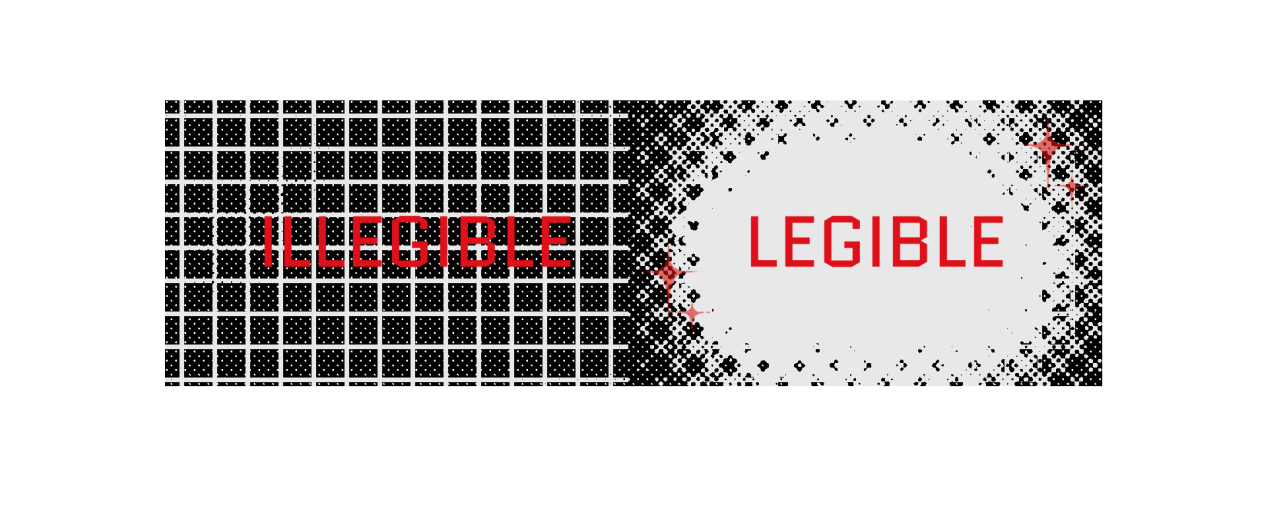
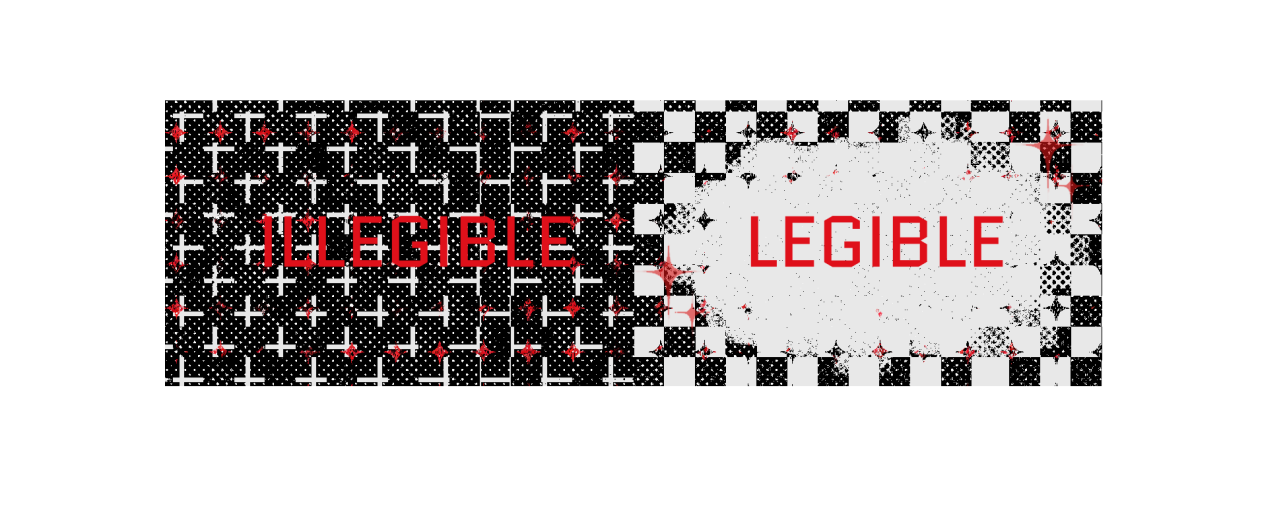
Final almost
Added images, texts, adjusted button

Changed region(s): [[0.1231, 0.1775, 0.8927, 0.7692]]

diff --git a/WebsiteManifesto.html b/WebsiteManifesto.html
@@ -155,8 +155,10 @@
 	
 		
 		<h4>Visual appeal</h4>
+		
 			<p>When referring to visual appeal in web design, we're not talking about subjective color opinions. Instead, the emphasis is on creating harmonious color palettes that are easy on the eyes. Choosing colors that have broad visual appeal requires an understanding of color theory. As we'll discuss in more detail later on, there are three types of color schemes that have universal appeal: monochromatic, complementary, and analogous. Recognizing and knowing how to create these color schemes makes choosing colors for websites easier and more effective.</p>
 		
+		<img src="IMG/603010.png" alt="image showing an example of the 60-30-10 rule" width="100%"/>
 
 		<h4>1. Choose a primary color</h4>
 		<p>The best place to start when creating a color palette is with the primary color. A palette's primary color is the star of the show. If we follow the 60/30/10 rule, the primary color takes up about 60% of the color on a website.
@@ -174,8 +176,24 @@
 </h4>
 		<p>Last but not least, every color palette should include an accent color. This color is used sparingly, taking up about 10% of real estate on a website. Often, the accent color contrasts strongly against the primary color. This contrast helps the accent color stand out and draw attention to important elements on the page, for instance buttons.
 </p>
-		<p>The term "accent color" typically calls to mind vibrant colors like teal or orange. But note that black and white are considered colors as well and can be used effectively as accent colors, especially on more colorful websites.
-</p>
+		
+		<h4>Contrast
+		
+</h4>
+		
+		
+		<p>Contrast can be achieved through color, shape, size, or similar properties of elements, and refers to the differences between them. Color contrast is often the first thing people think of, but differences in the sizes of elements, their shape, or some other property also create contrast.
+
+Contrast serves two very important functions. First, it allows you to make elements stand out from one another. A complete lack of contrast would result in a design that’s simply a single background color with no other visible elements — not exactly a functional design. A design where you can see different elements automatically has some level of contrast.
+
+The second important function of contrast is accessibility. Sufficient contrast between elements, especially text and its background, is vital for creating an accessible design. People with vision impairments can have a difficult time reading text on a screen that is too small or does not have sufficient color contrast.</p>
+		<img src="IMG/contrast.png" alt="image showing an example of contrast between text and background" width="100%"/>
+		
+		<h4>How to apply the principles of design</h4>
+		
+<p>Learning and following established design principles in graphic design allows you to create more cohesive designs that delight users and offer exceptional user experiences.
+
+Disregarding these principles of design should be done with caution, and only after you have a thorough understanding of them and the purposes they serve.</p>
 
 		<div class="center-box">
 
@@ -202,7 +220,7 @@
 		
 		<p>	<a href="https://tilda.education/en/web-design-principles" target="_blank">10 Principles Of Good Web Design by Tilda</a> </p>
 		
-		<fh4>Looking to Get Started?</fh4>
+		<h6>Looking to Get Started?<h6>
 		
 		
 	<div class="center-box">

diff --git a/CSSMANIFESTO.css b/CSSMANIFESTO.css
@@ -93,13 +93,14 @@ q { font-family: 'IBM Plex Sans';
 	padding: 4px;
 }
 
-fh4{ font-family: "Unica One", sans-serif;
+h6{ font-family: "Unica One", sans-serif;
   font-weight: 400;
   font-style: normal;
 	font-size: 3vw;
 	color:#E8E8E8;
 	text-align:center;
-	margin-bottom:0;
+	padding-top: 0px;
+
 	}
 
 p2{ font-family: 'IBM Plex Sans';
@@ -167,7 +168,7 @@ font-family: "Unica One", sans-serif;
   text-align: center;
   text-decoration: none;
   display: inline-block;
-  margin: 4px 2px;
+  margin: 4px 5px;
   cursor: pointer;
 	text-shadow: 0px 0px #E8E8E8;
 }
@@ -197,7 +198,7 @@ font-family: "Unica One", sans-serif;
   text-align: center;
   text-decoration: none;
   display: inline-block;
-  margin: 4px 2px;
+  margin: -5px 5px;
   cursor: pointer;
 	text-shadow: 0px 0px #E8E8E8;
 }
@@ -232,5 +233,4 @@ ac:hover{
 }
 
 
-.hyper {
-}
+
